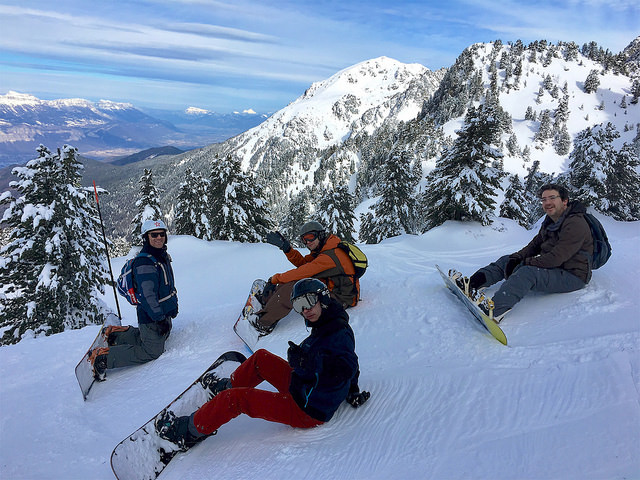
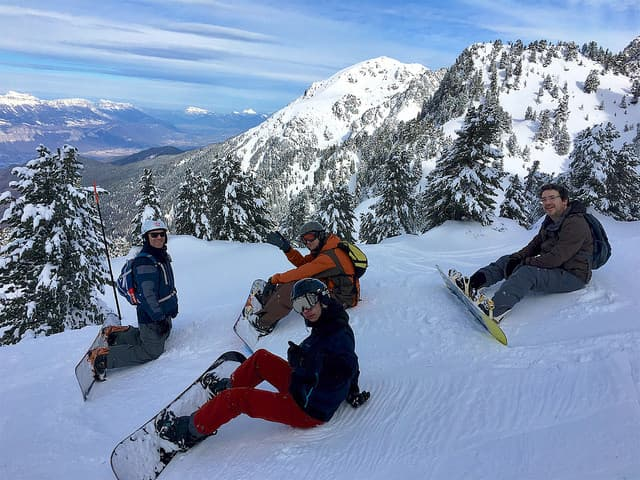
fix(img): use compressed images in some places (sometimes .webp)
- this decreases the size of images roughly ~80%

diff --git a/layouts/partials/index.fr.html b/layouts/partials/index.fr.html
@@ -62,7 +62,7 @@
           </div>
           <div class="col-xs-12 col-sm-6 col-md-4">
             <div class="single">
-              <img src="{{.Site.BaseURL}}/img/icon-unconference.png" alt="unconference" width="30%">
+              <img src="{{.Site.BaseURL}}/img/icon-unconference.webp" alt="unconference" width="30%">
               <h3 class="title">Unconference</h3>
               <p class="info">Une journée d'échange sur les pistes mêlant orateurs et participants.</p>
             </div>
@@ -147,7 +147,7 @@
         <div class="row">
           <div class="col-xs-12 col-sm-6 col-md-6">
             <div class="single">
-              <img src="{{.Site.BaseURL}}/img/themas.png" alt="themas">
+              <img src="{{.Site.BaseURL}}/img/themas.webp" alt="themas">
             </div>
           </div>
           <div class="col-xs-12 col-sm-6 col-md-6">
@@ -243,7 +243,7 @@
           <div class="col-xs-12 col-sm-6 col-md-6 polaroid-images">
             <div class="single">
               <a href="http://www.congres-wtcgrenoble.com/fr/annuaire-geolocalise?field_service_tid%5B%5D=73&field_service_tid%5B%5D=69&field_service_tid%5B%5D=68&field_service_tid%5B%5D=70" target="_blank" class="rot-4" title="WTC Grenoble">
-                <img src="{{.Site.BaseURL}}/img/wtc.jpg" alt="WTC Grenoble" width="40%">
+                <img src="{{.Site.BaseURL}}/img/wtc.webp" alt="WTC Grenoble" width="40%">
               </a>
             </div>
           </div>
@@ -291,7 +291,7 @@
           <div class="col-xs-12 col-sm-6 col-md-6 polaroid-images">
             <div class="single">
               <a href="http://www.congres-wtcgrenoble.com/sites/default/files/PLAN%20ACCES%20GENERAL.pdf" target="_blank" class="rot4" title="WTC - Plan d'accès">
-                <img src="{{.Site.BaseURL}}/img/wtc-access-en.png" alt="WTC, Centre de Congrès de Grenoble" width="30%">
+                <img src="{{.Site.BaseURL}}/img/wtc-access-fr.webp" alt="WTC, Centre de Congrès de Grenoble" width="30%">
               </a>
             </div>
           </div>

diff --git a/layouts/partials/index.en.html b/layouts/partials/index.en.html
@@ -62,7 +62,7 @@
           </div>
           <div class="col-xs-12 col-sm-6 col-md-4">
             <div class="single">
-              <img src="{{.Site.BaseURL}}/img/icon-unconference.png" alt="unconference" width="30%">
+              <img src="{{.Site.BaseURL}}/img/icon-unconference.webp" alt="unconference" width="30%">
               <h3 class="title">Unconference</h3>
               <p class="info">A day of exchange on the skiing slopes gathering speakers and attendees.</p>
             </div>
@@ -147,7 +147,7 @@
           <div class="row">
              <div class="col-xs-12 col-sm-6 col-md-6">
               <div class="single">
-                <img src="{{.Site.BaseURL}}/img/themas.png" alt="themas">
+                <img src="{{.Site.BaseURL}}/img/themas.webp" alt="themas">
               </div>
             </div>
             <div class="col-xs-12 col-sm-6 col-md-6">
@@ -241,7 +241,7 @@
           <div class="col-xs-12 col-sm-6 col-md-6 polaroid-images">
             <div class="single">
               <a href="http://www.congres-wtcgrenoble.com/en/annuaire-geolocalise?field_service_tid%25255B0%25255D=73" target="_blank" class="rot-4" title="WTC Grenoble - Conference Center">
-                <img src="{{.Site.BaseURL}}/img/wtc.jpg" alt="WTC Grenoble - Conference Center" width="40%">
+                <img src="{{.Site.BaseURL}}/img/wtc.webp" alt="WTC Grenoble - Conference Center" width="40%">
               </a>
             </div>
           </div>
@@ -287,7 +287,7 @@
           <div class="col-xs-12 col-sm-6 col-md-6 polaroid-images">
             <div class="single">
               <a href="http://www.congres-wtcgrenoble.com/sites/default/files/ACCESS%20MAP.pdf" target="_blank" class="rot4" title="WTC Grenoble - Access">
-                <img src="{{.Site.BaseURL}}/img/wtc-access-en.png" alt="WTC Grenoble - Conference Center" width="30%">
+                <img src="{{.Site.BaseURL}}/img/wtc-access-en.webp" alt="WTC Grenoble - Conference Center" width="30%">
               </a>
             </div>
           </div>

diff --git a/content/snowcamp.en.html b/content/snowcamp.en.html
@@ -25,7 +25,7 @@
           <div class="row">
             <div class="col-xs-12 col-sm-12 col-md-6 polaroid-images">
               <a href="#" class="rot18" title="Universities, Conferences, Unconference">
-                <img src="img/snowcamp-equation.png" alt="universities" width="30%">
+                <img src="img/snowcamp-equation.webp" alt="universities" width="30%">
               </a>
             </div>
             <div class="col-xs-12 col-sm-12 col-md-6 text">
@@ -59,7 +59,7 @@
                  and more relax context, prone to creativity: the snowy slopes.</p>
             </div>
             <div class="col-xs-12 col-sm-12 col-md-6 polaroid-images">
-              <a href="#" class="rot4" title="Grenoble by night"><img src="img/grenoble.png"></a>
+              <a href="#" class="rot4" title="Grenoble by night"><img src="img/grenoble.webp"></a>
             </div>
           </div>
         </section>
@@ -68,7 +68,7 @@
           <div class="row">
             <div class="col-xs-12 col-sm-12 col-md-6 polaroid-images">
               <div class="single">
-                <a href="#" class="rot-4" title="A talk"><img src="img/ozan.png"></a>
+                <a href="#" class="rot-4" title="A talk"><img src="img/ozan.webp"></a>
               </div>
             </div>
             <div class="col-xs-12 col-sm-12 col-md-6 text">

diff --git a/content/snowcamp.fr.html b/content/snowcamp.fr.html
@@ -25,7 +25,7 @@
           <div class="row">
             <div class="col-xs-12 col-sm-12 col-md-6 polaroid-images">
               <a href="#" class="rot18" title="Universités, Conférences, Unconference">
-                <img src="img/snowcamp-equation.png" alt="universities" width="30%">
+                <img src="img/snowcamp-equation.webp" alt="universities" width="30%">
               </a>
             </div>
             <div class="col-xs-12 col-sm-12 col-md-6 text">
@@ -55,7 +55,7 @@
               </p>
             </div>
             <div class="col-xs-12 col-sm-12 col-md-6 polaroid-images">
-              <a href="#" class="rot4" title="Grenoble by night"><img src="img/grenoble.png"></a>
+              <a href="#" class="rot4" title="Grenoble by night"><img src="img/grenoble.webp"></a>
             </div>
           </div>
         </section>
@@ -64,7 +64,7 @@
           <div class="row">
             <div class="col-xs-12 col-sm-12 col-md-6 polaroid-images">
               <div class="single">
-                <a href="#" class="rot-4" title="Un talk"><img src="img/ozan.png"></a>
+                <a href="#" class="rot-4" title="Un talk"><img src="img/ozan.webp"></a>
               </div>
             </div>
             <div class="col-xs-12 col-sm-12 col-md-6 text">

diff --git a/static/past/2017/en/welcome.html b/static/past/2017/en/welcome.html
@@ -251,7 +251,7 @@
 
   <div class="ui text container soldout">
     <h1 class="ui inverted header logo">
-    <img class="ui tiny center aligned image" src="../../assets/themes/snowcamp/skin/alpes-snow-full-illustration.png" />
+    <img class="ui tiny center aligned image" src="../../assets/themes/snowcamp/skin/alpes-snow-full-illustration.webp" />
       SnowCamp 2017
     </h1>
     <h2><b>Get your skis ready for</b></h2>
@@ -433,7 +433,7 @@
 
       <div class="four wide column">
         <h4 class="ui inverted header">
-            <img class="ui tiny center aligned image" src="../../assets/themes/snowcamp/skin/alpes-snow-full-illustration.png" />
+            <img class="ui tiny center aligned image" src="../../assets/themes/snowcamp/skin/alpes-snow-full-illustration.webp" />
         </h4>
       </div>
     </div>

diff --git a/static/past/2017/fr/welcome.html b/static/past/2017/fr/welcome.html
@@ -251,7 +251,7 @@
 
   <div class="ui text container soldout">
     <h1 class="ui inverted header logo">
-    <img class="ui tiny center aligned image" src="../../assets/themes/snowcamp/skin/alpes-snow-full-illustration.png" />
+    <img class="ui tiny center aligned image" src="../../assets/themes/snowcamp/skin/alpes-snow-full-illustration.webp" />
       SnowCamp 2017
     </h1>
     <h2><b>Fartez vos skis pour...</b></h2>
@@ -436,7 +436,7 @@
 
       <div class="four wide column">
         <h4 class="ui inverted header">
-            <img class="ui tiny center aligned image" src="../../assets/themes/snowcamp/skin/alpes-snow-full-illustration.png" />
+            <img class="ui tiny center aligned image" src="../../assets/themes/snowcamp/skin/alpes-snow-full-illustration.webp" />
         </h4>
       </div>
     </div>

diff --git a/layouts/partials/header_menu.html b/layouts/partials/header_menu.html
@@ -19,7 +19,7 @@
                   </button>
                   <div class="navbar-brand snc-logo">
                     <a href="{{.Site.BaseURL}}{{ .Lang }}" class="snc-scroll">
-                      <img src="{{.Site.BaseURL}}/img/alpes-snow-full-illustration.png"
+                      <img src="{{.Site.BaseURL}}/img/alpes-snow-full-illustration.webp"
                            alt="Logo">
                     </a>
                   </div>

diff --git a/static/past/2017/fr/sponsors.html b/static/past/2017/fr/sponsors.html
@@ -566,7 +566,7 @@
 
       <div class="four wide column">
         <h4 class="ui inverted header">
-            <img class="ui tiny center aligned image" src="/past../../assets/themes/snowcamp/skin/alpes-snow-full-illustration.png" />
+            <img class="ui tiny center aligned image" src="/past../../assets/themes/snowcamp/skin/alpes-snow-full-illustration.webp" />
         </h4>
       </div>
     </div>

diff --git a/static/past/2017/en/schedule.html b/static/past/2017/en/schedule.html
@@ -358,7 +358,7 @@
 
       <div class="four wide column">
         <h4 class="ui inverted header">
-            <img class="ui tiny center aligned image" src="../../assets/themes/snowcamp/skin/alpes-snow-full-illustration.png" />
+            <img class="ui tiny center aligned image" src="../../assets/themes/snowcamp/skin/alpes-snow-full-illustration.webp" />
         </h4>
       </div>
     </div>

diff --git a/static/past/2017/en/sponsors.html b/static/past/2017/en/sponsors.html
@@ -560,7 +560,7 @@
 
       <div class="four wide column">
         <h4 class="ui inverted header">
-            <img class="ui tiny center aligned image" src="../../assets/themes/snowcamp/skin/alpes-snow-full-illustration.png" />
+            <img class="ui tiny center aligned image" src="../../assets/themes/snowcamp/skin/alpes-snow-full-illustration.webp" />
         </h4>
       </div>
     </div>

diff --git a/static/past/2017/en/story.html b/static/past/2017/en/story.html
@@ -359,7 +359,7 @@
 
       <div class="four wide column">
         <h4 class="ui inverted header">
-            <img class="ui tiny center aligned image" src="../../assets/themes/snowcamp/skin/alpes-snow-full-illustration.png" />
+            <img class="ui tiny center aligned image" src="../../assets/themes/snowcamp/skin/alpes-snow-full-illustration.webp" />
         </h4>
       </div>
     </div>

diff --git a/static/past/2017/en/venue.html b/static/past/2017/en/venue.html
@@ -406,7 +406,7 @@
 
       <div class="four wide column">
         <h4 class="ui inverted header">
-            <img class="ui tiny center aligned image" src="../../assets/themes/snowcamp/skin/alpes-snow-full-illustration.png" />
+            <img class="ui tiny center aligned image" src="../../assets/themes/snowcamp/skin/alpes-snow-full-illustration.webp" />
         </h4>
       </div>
     </div>
